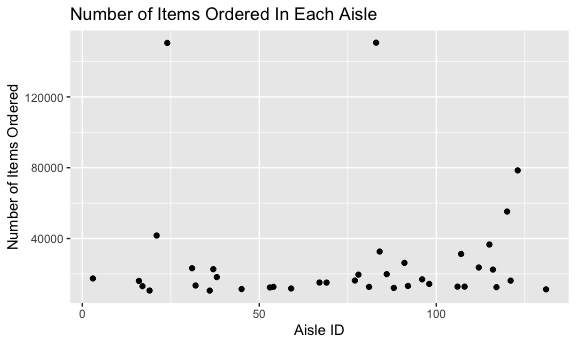
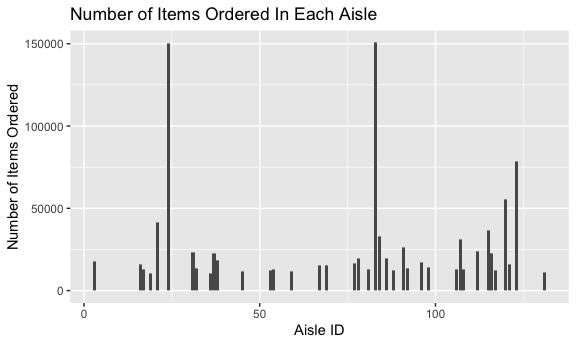
updating problem 1

diff --git a/p8105_hw3_lcc2181.md b/p8105_hw3_lcc2181.md
@@ -33,17 +33,17 @@ order for Bulgarian Yogurt from the yogurt aisle.
 How many aisles are there and which aisles are the most items ordered
 from?
 
-*Using the `count` function to count the number of aisle\_id’s in the
+*Using the `count` function to count the number of aisles in the
 instacart data set, and the `distinct` function to remove duplicate
-aisle\_ids to ensure all aisle\_id’s being counted are unique. *Using
-the `group_by` function to group by aisle\_id and `summarize` to
-summarize the total number of observations by aisle\_id, assuming each
-observation in the dataset represents an item ordered. \*Using
-`arrrange` to order in descending order, so that aisles will be listed
-in order most to least items ordered.
+aisles to ensure all aisles being counted are unique. *Using the
+`group_by` function to group by aisle and `summarize` to summarize the
+total number of observations by aisle, assuming each observation in the
+data set represents an item ordered. \*Using `arrrange` to order in
+descending order, so that aisles will be listed in order most to least
+items ordered.
 
 ``` r
-count(distinct(instacart, aisle_id)) 
+count(distinct(instacart, aisle))
 ```
 
     ## # A tibble: 1 × 1
@@ -53,28 +53,29 @@ count(distinct(instacart, aisle_id))
 
 ``` r
 instacart %>% 
-  group_by(aisle_id) %>% 
+  group_by(aisle) %>% 
   summarize(number_of_items = n()) %>% 
   arrange(desc(number_of_items))
 ```
 
     ## # A tibble: 134 × 2
-    ##    aisle_id number_of_items
-    ##       <int>           <int>
-    ##  1       83          150609
-    ##  2       24          150473
-    ##  3      123           78493
-    ##  4      120           55240
-    ##  5       21           41699
-    ##  6      115           36617
-    ##  7       84           32644
-    ##  8      107           31269
-    ##  9       91           26240
-    ## 10      112           23635
+    ##    aisle                         number_of_items
+    ##    <chr>                                   <int>
+    ##  1 fresh vegetables                       150609
+    ##  2 fresh fruits                           150473
+    ##  3 packaged vegetables fruits              78493
+    ##  4 yogurt                                  55240
+    ##  5 packaged cheese                         41699
+    ##  6 water seltzer sparkling water           36617
+    ##  7 milk                                    32644
+    ##  8 chips pretzels                          31269
+    ##  9 soy lactosefree                         26240
+    ## 10 bread                                   23635
     ## # … with 124 more rows
 
-*There are 134 aisles. *The most items are ordered from aisle 83
-(150609) followed by aisle 24 (150473).
+There are 134 aisles. The most items are ordered from the “fresh
+vegetables” aisle (150609) followed by the “fresh fruits” aisle
+(150473).
 
 Making a plot showing number of items ordered in each aisle. The plot is
 limited to aisles with more than 10000 items ordered.
@@ -90,8 +91,8 @@ instacart %>%
   group_by(aisle_id) %>% 
   summarize(number_of_items = n()) %>% 
   filter(number_of_items > 10000) %>% 
-  ggplot(aes(x = aisle_id, y = number_of_items)) +
-  geom_point() +
+  ggplot() +
+  geom_bar(mapping = aes(x = aisle_id, y = number_of_items), stat = "identity") +
   labs(
     title = "Number of Items Ordered In Each Aisle",
     x = "Aisle ID",
@@ -102,28 +103,29 @@ instacart %>%
 <img src="p8105_hw3_lcc2181_files/figure-gfm/unnamed-chunk-4-1.png" width="90%" />
 
 In this plot, I can see the number of items ordered across the different
-aisles, limited to only aisles in which over 10,000 items were ordered.
-There are two aisles that appear to be outliers as they have a much
-greater numer of items ordered in those aisles compared with any other
-aisle (for both of these aisles, the number of items ordered is over
-140,000).
+aisles, shown by their aisle ID on the x-axis. The plot is limited to
+only aisles in which over 10,000 items were ordered, so there are 39
+aisles represented. There are two aisles which appear to have a much
+greater number of items ordered in those aisles compared with the other
+aisles (for both of these aisles, the number of items ordered is over
+150,000).
 
 Making a table showing the three most popular items in each of the
-aisles.
+aisles “baking ingredients”, “dog food care”, and “packaged vegetables
+fruits”, including the number of times each item is ordered.
 
 *Using `filter` to filter the data set to the three aisles - “baking
 ingredients”, “dog food care”, and “packaged vegetables fruits” *Using
 `group_by` to group the observations by aisle and product\_name *Using
-`summarize` to count the total number of observations by aisle\_id,
-assuming each observation (row) represents an item ordered *Using
-`filter` to filter to those with a ranking of less than 4 (so, a ranking
-of 1, 2, or 3) as determined by using the `min_rank` function with
-descending n\_items to ensure that those most number of items are ranked
-as highest *Using `select` to ensure that the variables aisle,
-product\_name, and n\_items are included in the table *Using `arrange`
-to order the table by aisle and most to least number of items in each
-aisle \*Using `knitr::kable()` to convert the table into a
-reader-friendly format
+`summarize` to count the total number of observations by aisle, assuming
+each observation (row) represents an item ordered *Using `filter` to
+filter to those with a ranking of less than 4 (so, a ranking of 1, 2, or
+3) as determined by using the `min_rank` function with descending
+n\_items to ensure that those most number of items are ranked as highest
+*Using `select` to ensure that the variables aisle, product\_name, and
+n\_items are included in the table *Using `arrange` to order the table
+by aisle and most to least number of items in each aisle \*Using
+`knitr::kable()` to convert the table into a reader-friendly format
 
 ``` r
 instacart %>% 
@@ -163,7 +165,7 @@ most popular items are Organic Baby Spinach, Organic Raspberries, and
 Organic Blueberries.
 
 Making a table showing mean hour of day at which Pink Lady Apples and
-Coffee Ice Cream are ordered each day of week
+Coffee Ice Cream are ordered each day of week.
 
 *Using `filter` to limit the table to the products “Pink Lady Apples”
 and “Coffee Ice Cream” *Using `mutate` to convert the order\_dow
@@ -202,7 +204,7 @@ instacart %>%
 This table shows the mean hour of the day at which Pink Lady Apples and
 Coffee Ice Cream are ordered for each day of the week. For every day of
 the week except for Friday, the mean hour of day in which Pink Lady
-Applies are ordered is earlier than the mean hour of the day in which
+Apples are ordered is earlier than the mean hour of the day in which
 Coffee Ice Cream is ordered.
 
 ## Problem 2
@@ -285,9 +287,9 @@ brfss_df %>%
     ## 13 TX             16
     ## 14 WA             10
 
-*In 2002, the states with 7 or more locations were CT, FL, MA, NC, NJ,
-and PA *In 2010, the states with 7 or more locations were CA, CO, FL,
-MA, MD, NC, NE, NJ, NY, OH, PA, SC, TX, and WA
+In 2002, the states with 7 or more locations were CT, FL, MA, NC, NJ,
+and PA. In 2010, the states with 7 or more locations were CA, CO, FL,
+MA, MD, NC, NE, NJ, NY, OH, PA, SC, TX, and WA.
 
 Constructing a data set limited to “Excellent” responses, containing
 year, state, and a variable that averages data\_value across locations
@@ -401,9 +403,11 @@ activity. There is an observation recording activity counts for each
 minute of each day over the course of 35 days.
 
 Creating a total activity variable for each day, aggregating across
-minutes \*Using `group_by` to group by day and `summarize` to create a
-new variable total\_activity which is sum of all activity observations
-from each minute of the day.
+minutes
+
+\*Using `group_by` to group by day and `summarize` to create a new
+variable total\_activity which is sum of all activity observations from
+each minute of the day.
 
 ``` r
 accel_df %>% 
@@ -431,11 +435,12 @@ activity count is reported on day 16 (685910.00) and his lowest total
 activity count is reported on days 24 and 31 (1440.00).
 
 Making a single-panel plot that shows the 24-hour activity time courses
-each day, using color to indicate day of the week. *Using `mutate` to
-divide the minute variable by 60 in order to convert minutes into hours
-*Creating a `ggplot` with hour on the x-axis and activity on the y-axis,
-colored by day of the week; adding `geom_smooth()` to create a line for
-each day.
+each day, using color to indicate day of the week.
+
+*Using `mutate` to divide the minute variable by 60 in order to convert
+minutes into hours *Creating a `ggplot` with hour on the x-axis and
+activity on the y-axis, colored by day of the week; adding
+`geom_smooth()` to create a line for each day.
 
 ``` r
 accel_df %>% 
@@ -451,6 +456,7 @@ accel_df %>%
 ```
 
 <img src="p8105_hw3_lcc2181_files/figure-gfm/unnamed-chunk-14-1.png" width="90%" />
+
 Based on this graph, I can tell the day of week and hour of day the
 individual had the highest activity count. Specifically, the individual
 appears to have been most active on a Wednesday in the 19th hour of the
